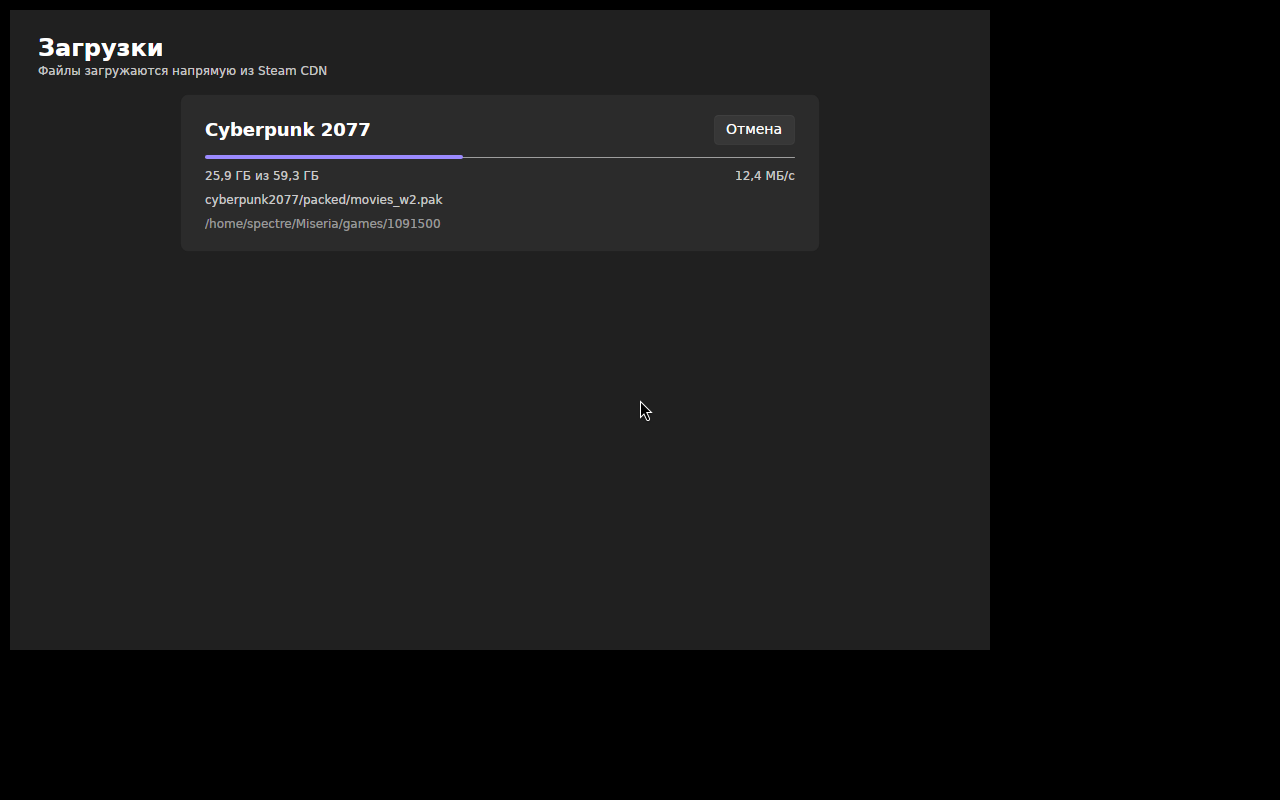
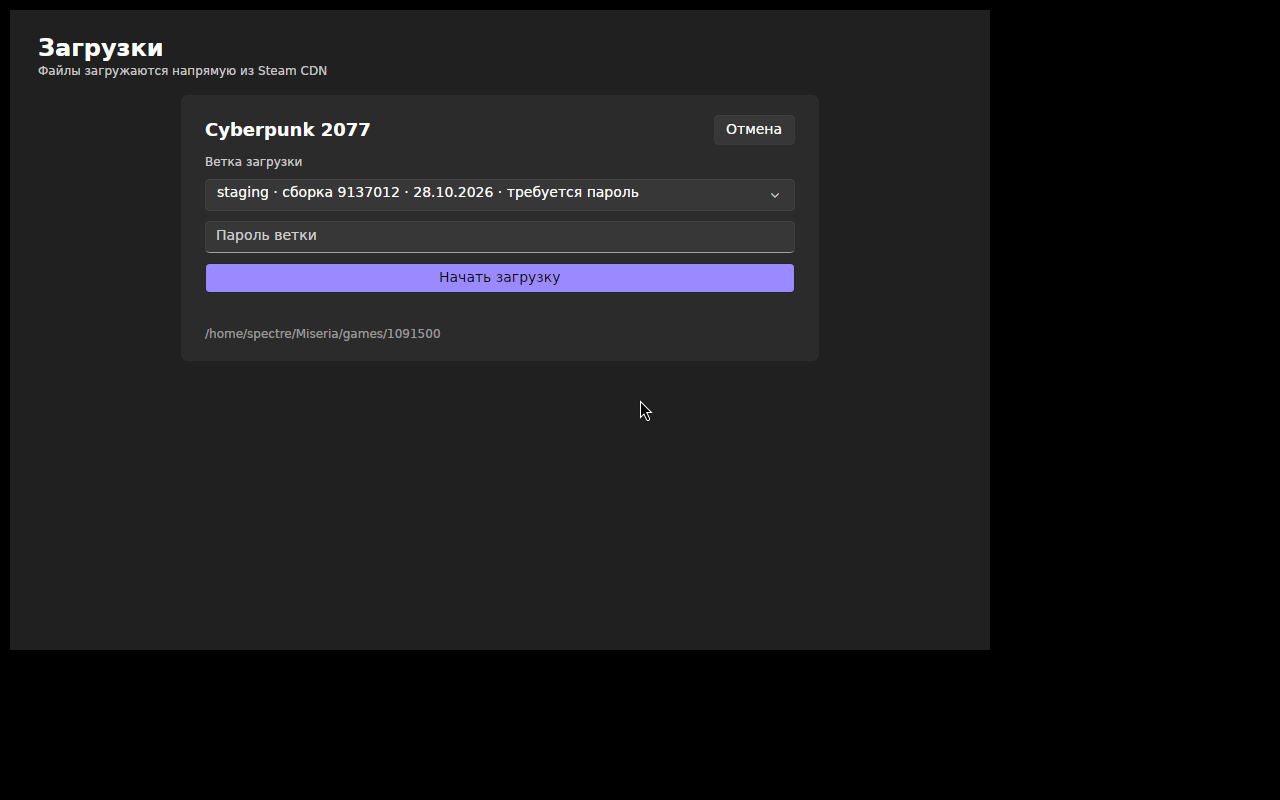
refresh screenshots and readme

Changed region(s): [[0.1562, 0.1875, 0.625, 0.375], [0.1562, 0.4062, 0.3438, 0.4375], [0.5938, 0.1875, 0.625, 0.25]]

diff --git a/README.md b/README.md
@@ -14,7 +14,10 @@ Early development. What works now:
 - Steam Guard prompts (email code, authenticator code) shown in the logon window
 - Friends list with live presence: online, away, snooze, looking to trade or play, in-game with the game name, avatars cached on disk
 - Library of owned apps: licenses are resolved to app ids through PICS product info, names, types and icons are shown with search
-- Downloads through SteamContent: depots are resolved from app info, current manifests and depot keys are fetched, chunks are downloaded from the Steam CDN in parallel, decrypted and verified, with progress, speed and cancel
+- Downloads through SteamContent: depots are resolved from app info, manifests and depot keys are fetched, chunks are downloaded from the Steam CDN in parallel, decrypted and verified, with progress, speed and cancel
+- Branch picker for downloads: every depot branch is listed with its build id, password-protected beta branches unlock through the private beta PICS request
+- Family View awareness: locked accounts are detected at logon and the session can be unlocked with the Family View PIN through Steam's Parental service
+- Install tracking and game launch: finished downloads are registered as installed apps and get a Play button that starts the executable from the app's launch config (Wine is used automatically for Windows games on Linux)
 - Automatic re-logon between launches: the refresh token is saved and reused, no password prompt until the session expires
 - Session status and logoff (logoff deletes the stored session)
 - Four themes: Light, Dark, Crimson and Kiwi
@@ -34,7 +37,7 @@ The first logon on a new device may ask for a Steam Guard code. The refresh toke
 
 | Library (Dark) | Downloads (Dark) |
 | --- | --- |
-| ![Library with app icons](docs/screenshots/library-dark.png) | ![Download progress](docs/screenshots/downloads-dark.png) |
+| ![Library with app icons and play buttons](docs/screenshots/library-dark.png) | ![Download branch picker](docs/screenshots/downloads-dark.png) |
 
 ## Build
 
@@ -65,13 +68,13 @@ src/Miseria.Core    SteamKit2 session: connect, authenticate, guard prompts, fri
 src/Miseria.App     Avalonia UI: MVVM view models, FluentAvalonia shell, theming
 ```
 
-`Miseria.Core` is the only place that touches SteamKit2 types. The UI talks to it through plain events and records: `LogOnAsync`, `GuardRequested`, `LoggedIn`, `LogonFailed`, `LoggedOut`, `FriendsLoaded`, `FriendUpdated`, `LibraryLoaded`, and `SteamDownloader` with `Started`, `Progress`, `Finished`.
+`Miseria.Core` is the only place that touches SteamKit2 types. The UI talks to it through plain events and records: `LogOnAsync`, `GuardRequested`, `LoggedIn`, `LogonFailed`, `LoggedOut`, `FriendsLoaded`, `FriendUpdated`, `LibraryLoaded`, `SteamDownloader` with `GetBranchesAsync` / `DownloadAsync` and `Started`, `Progress`, `Finished` events, and `UnlockFamilyViewAsync` for the Family View PIN.
 
-Downloads are written to `~/Miseria/games/<appid>` and resumed by file size when restarted.
+Downloads are written to `~/Miseria/games/<appid>`, resumed by file size when restarted and registered in `%APPDATA%\Miseria\installs.json`, which drives the Play buttons in the library.
 
 ## Roadmap
 
-- Family View awareness
+- Update checks for installed games: diff manifests and redownload changed files only
 
 ## Notes
 
